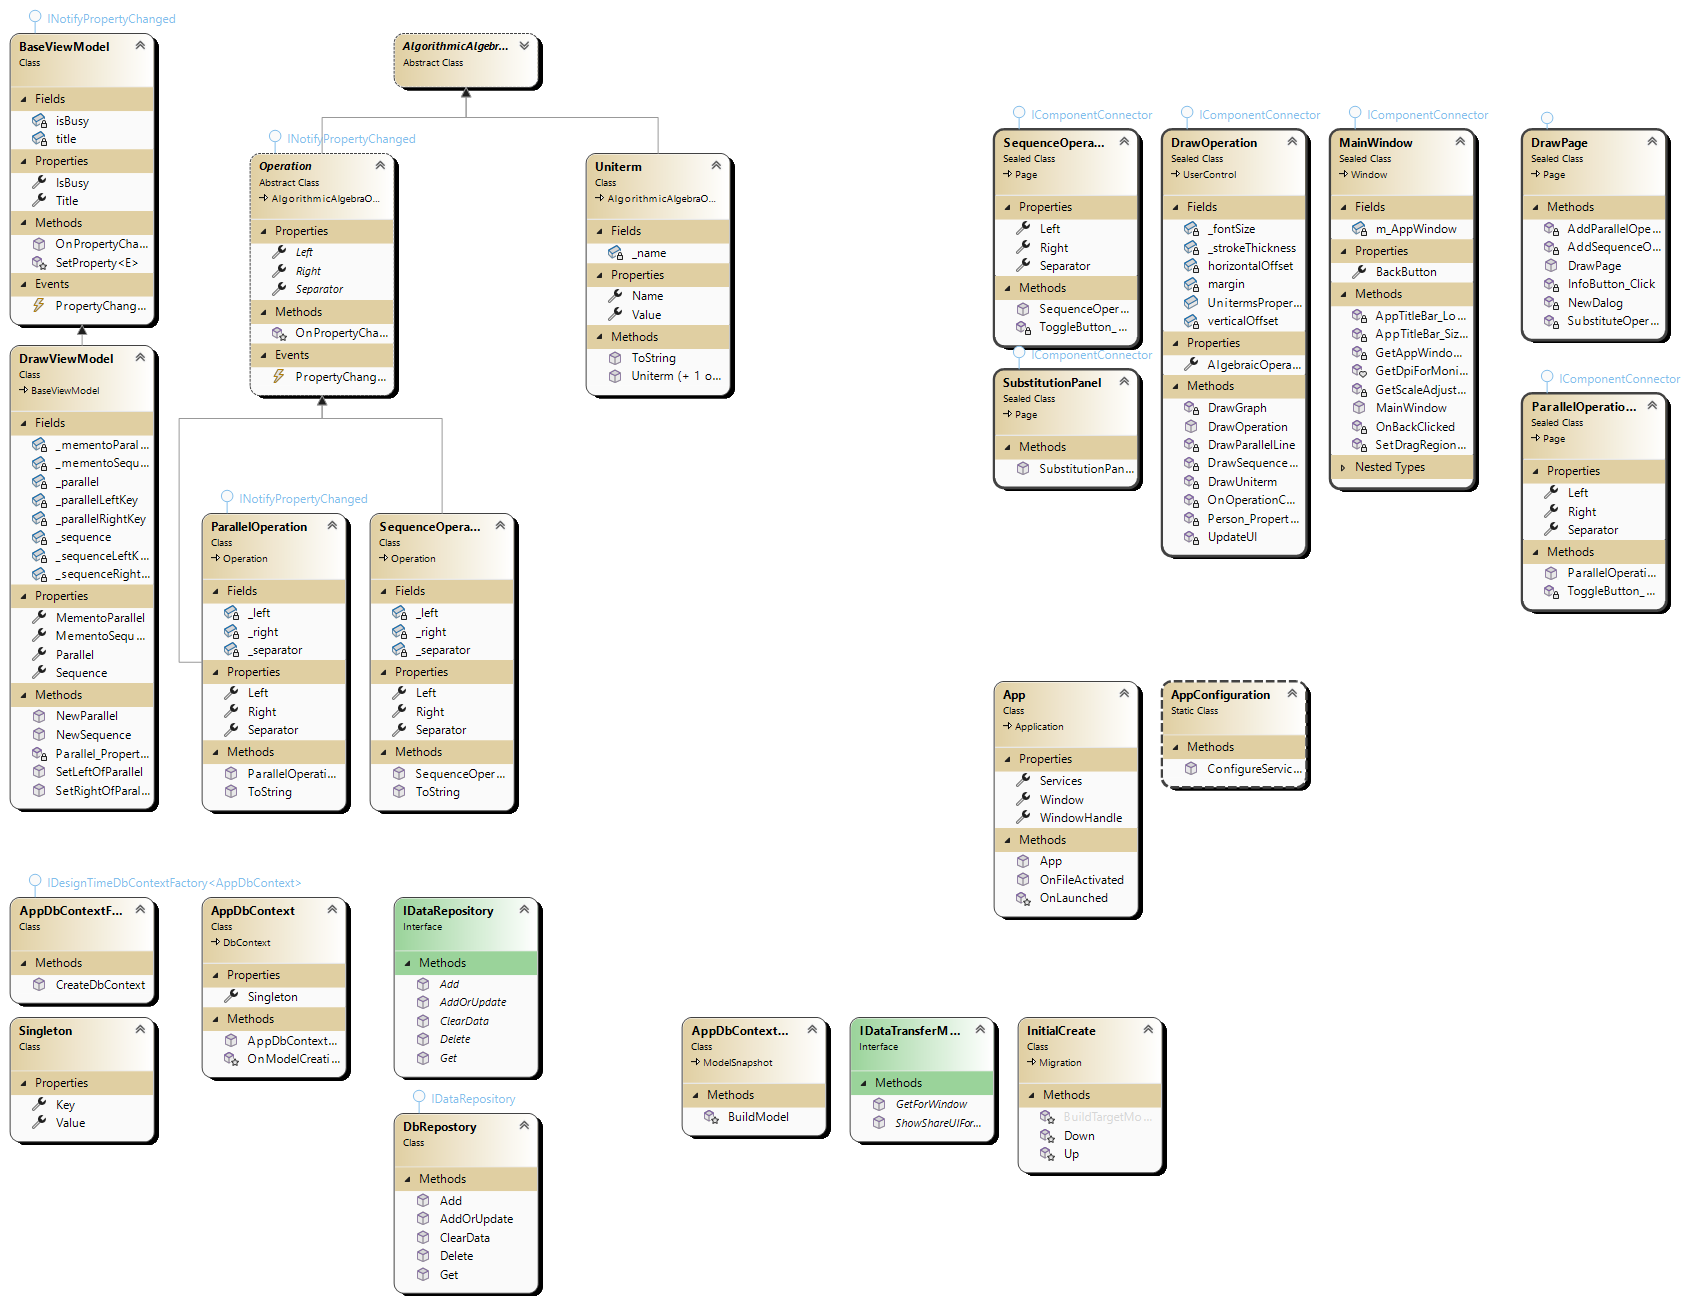
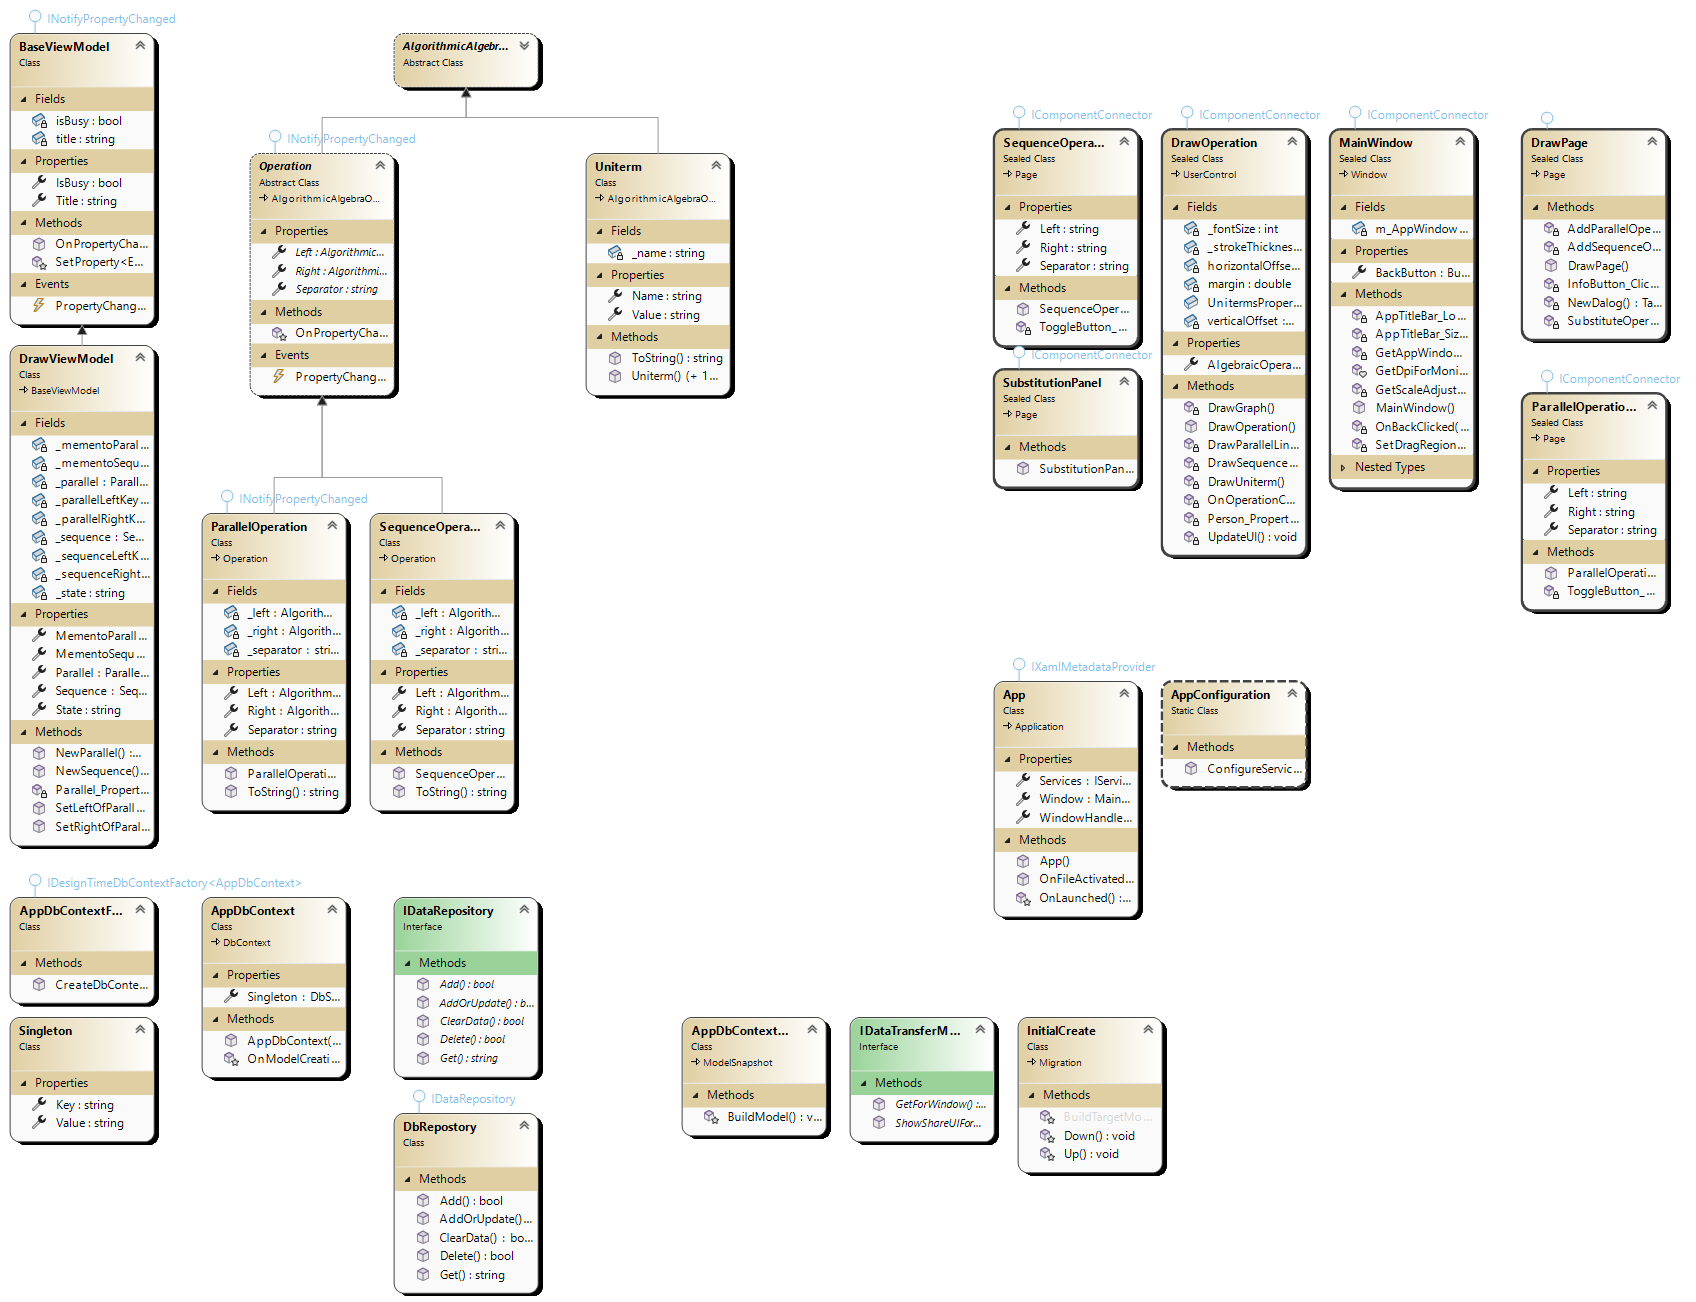
Added Services

diff --git a/Uniterms/ViewModels/DrawViewModel.cs b/Uniterms/ViewModels/DrawViewModel.cs
@@ -1,5 +1,6 @@
 using System.ComponentModel;
 using Uniterms.Models;
+using Uniterms.Services;
 
 namespace Uniterms.ViewModels
 {
@@ -14,8 +15,12 @@ namespace Uniterms.ViewModels
 
         private readonly string _parallelLeftKey = "ParallelLeft";
         private readonly string _parallelRightKey = "ParallelRight";
+        private readonly string _parallelSeparatorKey = "ParallelSeparator";
+
         private readonly string _sequenceLeftKey = "SequenceLeft";
         private readonly string _sequenceRightKey = "SequenceRight";
+        private readonly string _sequenceSeparatorKey = "SequenceSeparator";
+
 
         public SequenceOperation Sequence
         {
@@ -67,12 +72,10 @@ namespace Uniterms.ViewModels
         {
 
             if (MementoSequence is null || Parallel is null)
-            {
                 return;
-            }
 
             Parallel.Left = MementoSequence;
-            Parallel.Right = MementoParallel.Right;
+            Parallel.Right = OperationsService.RestoreUniterm(_parallelRightKey);
             Sequence = null;
 
         }
@@ -81,11 +84,9 @@ namespace Uniterms.ViewModels
         {
 
             if (MementoSequence is null || Parallel is null)
-            {
                 return;
-            }
 
-            Parallel.Left = MementoParallel.Left;
+            Parallel.Left = OperationsService.RestoreUniterm(_parallelLeftKey);
             Parallel.Right = MementoSequence;
             Sequence = null;
 
@@ -93,14 +94,14 @@ namespace Uniterms.ViewModels
 
         public void NewParallel(string left, string right, string separator)
         {
-            if( string.IsNullOrEmpty(left) || string.IsNullOrEmpty(right))
+            if (string.IsNullOrEmpty(left) || string.IsNullOrEmpty(right))
             {
                 State = "Unitermy dla operacji zrównoleglania nie mogą być puste.";
                 return;
             }
-            Parallel = new ParallelOperation(new Uniterm(_parallelLeftKey, left), new Uniterm(_parallelRightKey, right), separator);
-            MementoParallel = new ParallelOperation(new Uniterm(_parallelLeftKey, left), new Uniterm(_parallelRightKey, right), separator);
-            Sequence = MementoSequence;
+            Parallel = OperationsService.CreateParallel(_parallelLeftKey, left, _parallelRightKey, right, _parallelSeparatorKey, separator);
+            MementoParallel = OperationsService.RestoreParallel(_parallelLeftKey, _parallelRightKey, _parallelSeparatorKey);
+            Sequence = OperationsService.RestoreSequence(_sequenceLeftKey, _sequenceRightKey, _sequenceSeparatorKey);
         }
 
         public void NewSequence(string left, string right, string separator)
@@ -110,10 +111,9 @@ namespace Uniterms.ViewModels
                 State = "Unitermy dla operacji sekwencjonowania nie mogą być puste.";
                 return;
             }
-            Sequence = new SequenceOperation(new Uniterm(_sequenceLeftKey, left), new Uniterm(_sequenceRightKey, right), separator);
-            MementoSequence = new SequenceOperation(new Uniterm(_sequenceLeftKey, left), new Uniterm(_sequenceRightKey, right), separator);
-            if(MementoParallel is not null)
-                Parallel = new ParallelOperation(MementoParallel);
+            Sequence = OperationsService.CreateSequence(_sequenceLeftKey, left, _sequenceRightKey, right, _sequenceSeparatorKey, separator);
+            MementoSequence = OperationsService.RestoreSequence(_sequenceLeftKey, _sequenceRightKey, _sequenceSeparatorKey);
+            Parallel = OperationsService.RestoreParallel(_parallelLeftKey, _parallelRightKey, _parallelSeparatorKey);
         }
 
         private void Parallel_PropertyChanged(object sender, PropertyChangedEventArgs e)

diff --git a/Uniterms/Services/OperationsService.cs b/Uniterms/Services/OperationsService.cs
@@ -1,0 +1,81 @@
+using Microsoft.Extensions.DependencyInjection;
+using System;
+using System.Collections.Generic;
+using System.Linq;
+using System.Text;
+using System.Threading.Tasks;
+using Uniterms.Models;
+using Uniterms.Repositories;
+
+namespace Uniterms.Services
+{
+    public static class OperationsService
+    {
+        public static ParallelOperation CreateParallel(string leftUnitermKey, string leftUniterm, string rightUnitermKey, string rightUniterm, string separatorKey, string separator)
+        {
+            var left = new Uniterm(leftUnitermKey, leftUniterm);
+            var right = new Uniterm(rightUnitermKey, rightUniterm);
+
+            var repository = App.Services.GetService<IDataRepository>();
+            repository.AddOrUpdate(left.Name, left.Value);
+            repository.AddOrUpdate(right.Name, right.Value);
+            repository.AddOrUpdate(separatorKey, separator);
+
+            return new ParallelOperation(left, right, separator);
+
+        }
+
+        public static  SequenceOperation CreateSequence(string leftUnitermKey, string leftUniterm, string rightUnitermKey, string rightUniterm, string separatorKey, string separator)
+        {
+            var left = new Uniterm(leftUnitermKey, leftUniterm);
+            var right = new Uniterm(rightUnitermKey, rightUniterm);
+
+            var repository = App.Services.GetService<IDataRepository>();
+            repository.AddOrUpdate(left.Name, left.Value);
+            repository.AddOrUpdate(right.Name, right.Value);
+            repository.AddOrUpdate(separatorKey, separator);
+
+            return new SequenceOperation(left, right, separator);
+        }
+
+        public static ParallelOperation RestoreParallel(string leftUnitermKey, string rightUnitermKey, string separatorKey)
+        {
+            var left = RestoreUniterm(leftUnitermKey);
+            var right = RestoreUniterm(rightUnitermKey);
+            var separator = RestoreSeparator(separatorKey);
+
+            if (string.IsNullOrEmpty(separator) || left is null || right is null)
+                return null; 
+
+            return new ParallelOperation(left, right, separator);
+        }
+
+        public static SequenceOperation RestoreSequence(string leftUnitermKey, string rightUnitermKey, string separatorKey)
+        {
+            var left = RestoreUniterm(leftUnitermKey);
+            var right = RestoreUniterm(rightUnitermKey);
+            var separator = RestoreSeparator(separatorKey);
+
+            if (string.IsNullOrEmpty(separator) || left is null || right is null)
+                return null;
+
+            return new SequenceOperation(left, right, separator);
+        }
+
+        public static Uniterm RestoreUniterm(string key)
+        {
+            var repository = App.Services.GetService<IDataRepository>();
+            var uniterm = repository.Get(key);
+
+            if (uniterm is null)
+                return null;
+            return new Uniterm(key, uniterm);
+        }
+
+        public static string RestoreSeparator(string key)
+        {
+            var repository = App.Services.GetService<IDataRepository>();
+            return repository.Get(key);
+        }
+    }
+}

diff --git a/Uniterms/Repositories/DbRepostory.cs b/Uniterms/Repositories/DbRepostory.cs
@@ -6,9 +6,10 @@ using System.Linq;
 using System.Text;
 using System.Threading.Tasks;
 using Uniterms.DB;
+using Uniterms.Models;
 using Windows.System.UserProfile;
 
-namespace Uniterms.Services
+namespace Uniterms.Repositories
 {
     internal class DbRepostory : IDataRepository
     {
@@ -56,7 +57,7 @@ namespace Uniterms.Services
             using (var context = new AppDbContextFactory().CreateDbContext([]))
             {
                 var get = from i in context.Singleton select i;
-                foreach (var item in get) 
+                foreach (var item in get)
                 {
                     context.Singleton.Remove(item);
                 }
@@ -70,7 +71,7 @@ namespace Uniterms.Services
                 return false;
             using (var context = new AppDbContextFactory().CreateDbContext([]))
             {
-                var value = context.Singleton.Where(p =>  p.Key == key).SingleOrDefault();
+                var value = context.Singleton.Where(p => p.Key == key).SingleOrDefault();
                 context.Singleton.Remove(value);
                 var res = context.SaveChanges();
                 return res > 0;
@@ -84,7 +85,7 @@ namespace Uniterms.Services
             using (var context = new AppDbContextFactory().CreateDbContext([]))
             {
                 var value = context.Singleton.Where(p => p.Key == key).SingleOrDefault();
-                return value.Value;
+                return value?.Value;
             }
         }
     }

diff --git a/Uniterms/Models/Uniterm.cs b/Uniterms/Models/Uniterm.cs
@@ -1,30 +1,19 @@
 using Microsoft.Extensions.DependencyInjection;
 using System;
 using System.Collections.Generic;
+using System.ComponentModel.DataAnnotations;
 using System.Linq;
 using System.Text;
 using System.Threading.Tasks;
-using Uniterms.Services;
+using Uniterms.Repositories;
 
 namespace Uniterms.Models
 {
-    internal class Uniterm : AlgorithmicAlgebraObject
+    public class Uniterm : AlgorithmicAlgebraObject
     {
-        private string _name;
-
-        public string Name { get => _name; set => _name = value; }
-        public string Value
-        {
-            get
-            {
-                return App.Services.GetService<IDataRepository>().Get(Name);
-            }
-            set
-            {
-                App.Services.GetService<IDataRepository>().AddOrUpdate(Name, value);
-            }
-
-        }
+        
+        public string Name { get; set ; }
+        public string Value { get; set; }
 
         public Uniterm(string name, string value)
         {
@@ -32,12 +21,7 @@ namespace Uniterms.Models
             Value = value;
         }
 
-        public Uniterm(string name)
-        {
-            Name = name;
-            if(Value == null)
-                Value = "[null]";
-        }
+        public Uniterm() { }
 
         public override string ToString()
         {

diff --git a/Uniterms/DB/AppDbContext.cs b/Uniterms/DB/AppDbContext.cs
@@ -13,14 +13,7 @@ namespace Uniterms.DB
 
         public AppDbContext(DbContextOptions options) : base(options) { }
 
-        // public AppDbContext() : base() { }
-
         public DbSet<Singleton> Singleton { get; set; }
-
-        //protected override void OnConfiguring(DbContextOptionsBuilder optionsBuilder)
-        //{
-        //    optionsBuilder.UseNpgsql("Host=localhost;Database=MASI;Username=postgres;Password=superpassword");
-        //}
 
         protected override void OnModelCreating(ModelBuilder modelBuilder)
         {

diff --git a/Uniterms/App.xaml.cs b/Uniterms/App.xaml.cs
@@ -18,7 +18,7 @@ using Windows.Foundation;
 using Windows.Foundation.Collections;
 using Uniterms;
 using Microsoft.Extensions.DependencyInjection;
-using Uniterms.Services;
+using Uniterms.Repositories;
 
 // To learn more about WinUI, the WinUI project structure,
 // and more about our project templates, see: http://aka.ms/winui-project-info.

diff --git a/Uniterms/AppConfiguration.cs b/Uniterms/AppConfiguration.cs
@@ -4,7 +4,7 @@ using System.Collections.Generic;
 using System.Linq;
 using System.Text;
 using System.Threading.Tasks;
-using Uniterms.Services;
+using Uniterms.Repositories;
 
 namespace Uniterms
 {

diff --git a/Uniterms/Repositories/IDataRepository.cs b/Uniterms/Repositories/IDataRepository.cs
@@ -4,7 +4,7 @@ using System.Linq;
 using System.Text;
 using System.Threading.Tasks;
 
-namespace Uniterms.Services
+namespace Uniterms.Repositories
 {
     internal interface IDataRepository
     {
